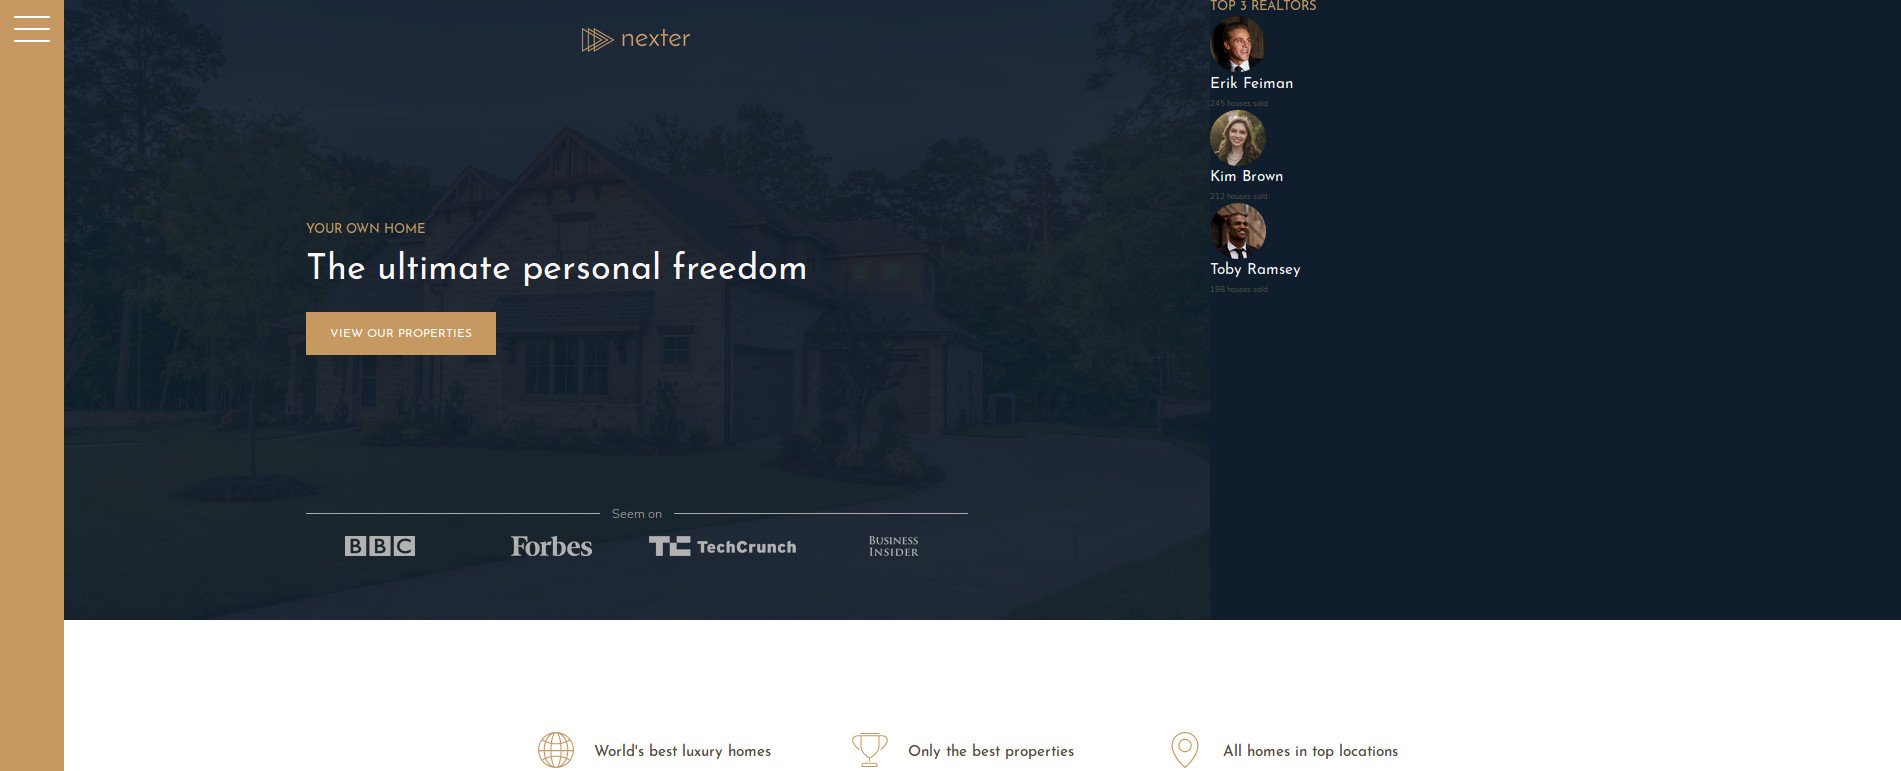
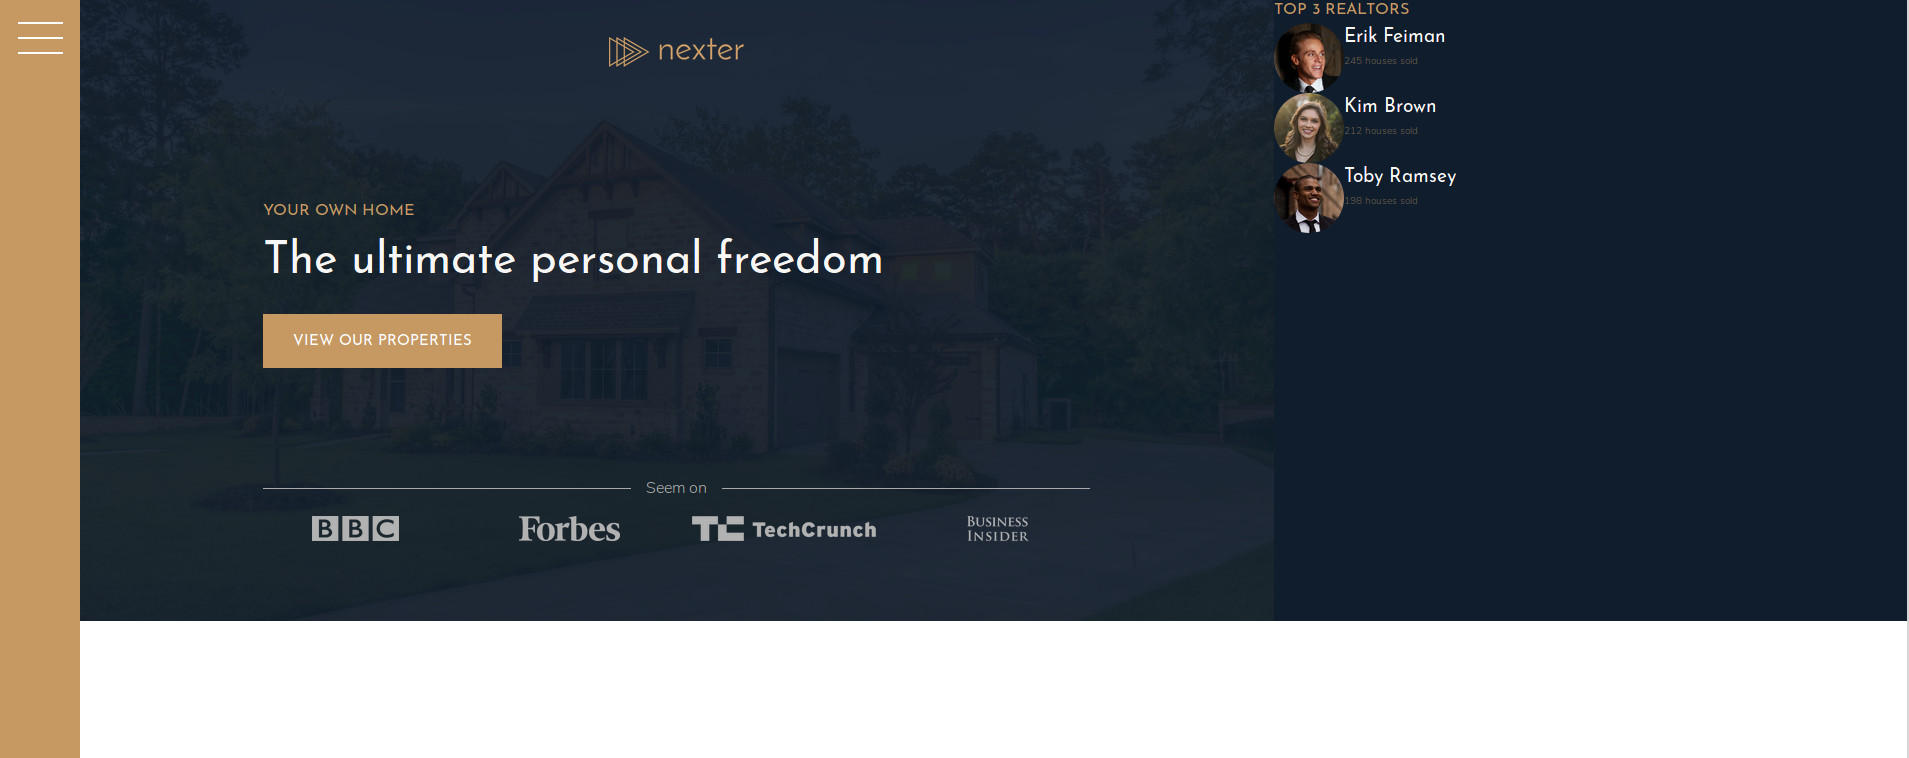
Set gap between the rows and the columns of css grid. Use viewport height relative units for the rows to adapt the height of the entire grid track with the height of the viewport.

diff --git a/sass/_realtors.scss b/sass/_realtors.scss
@@ -5,6 +5,8 @@
   &__list {
     display: grid;
     grid-template-columns: min-content max-content;
+    grid-column-gap: 2rem;
+    grid-row-gap: 5vh;
   }
   
   &__img {
